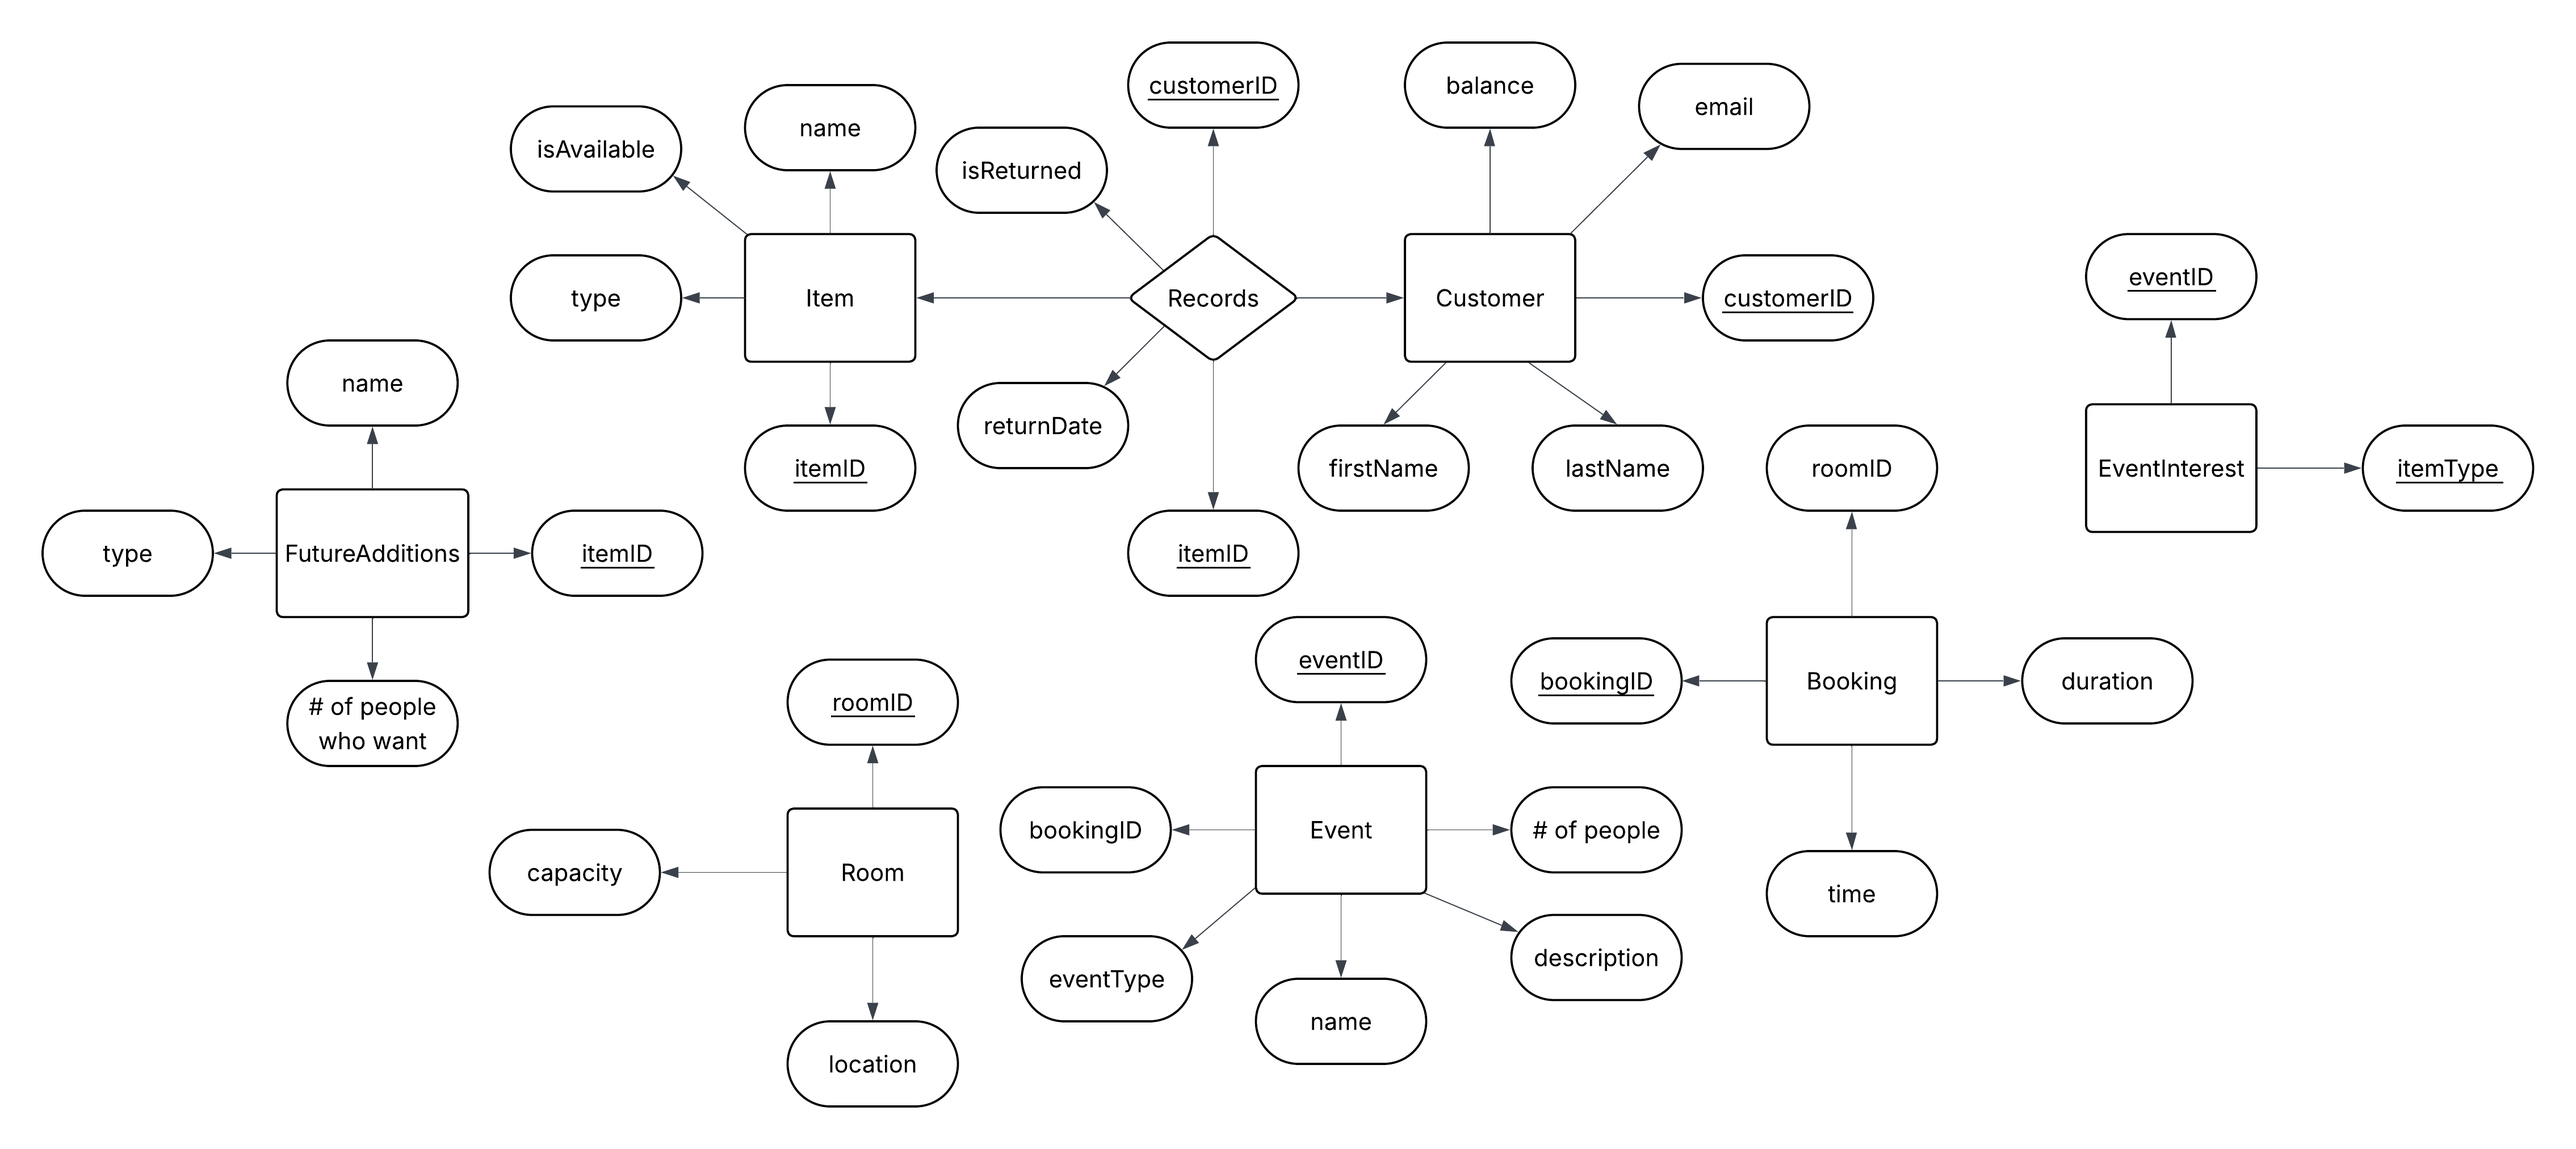
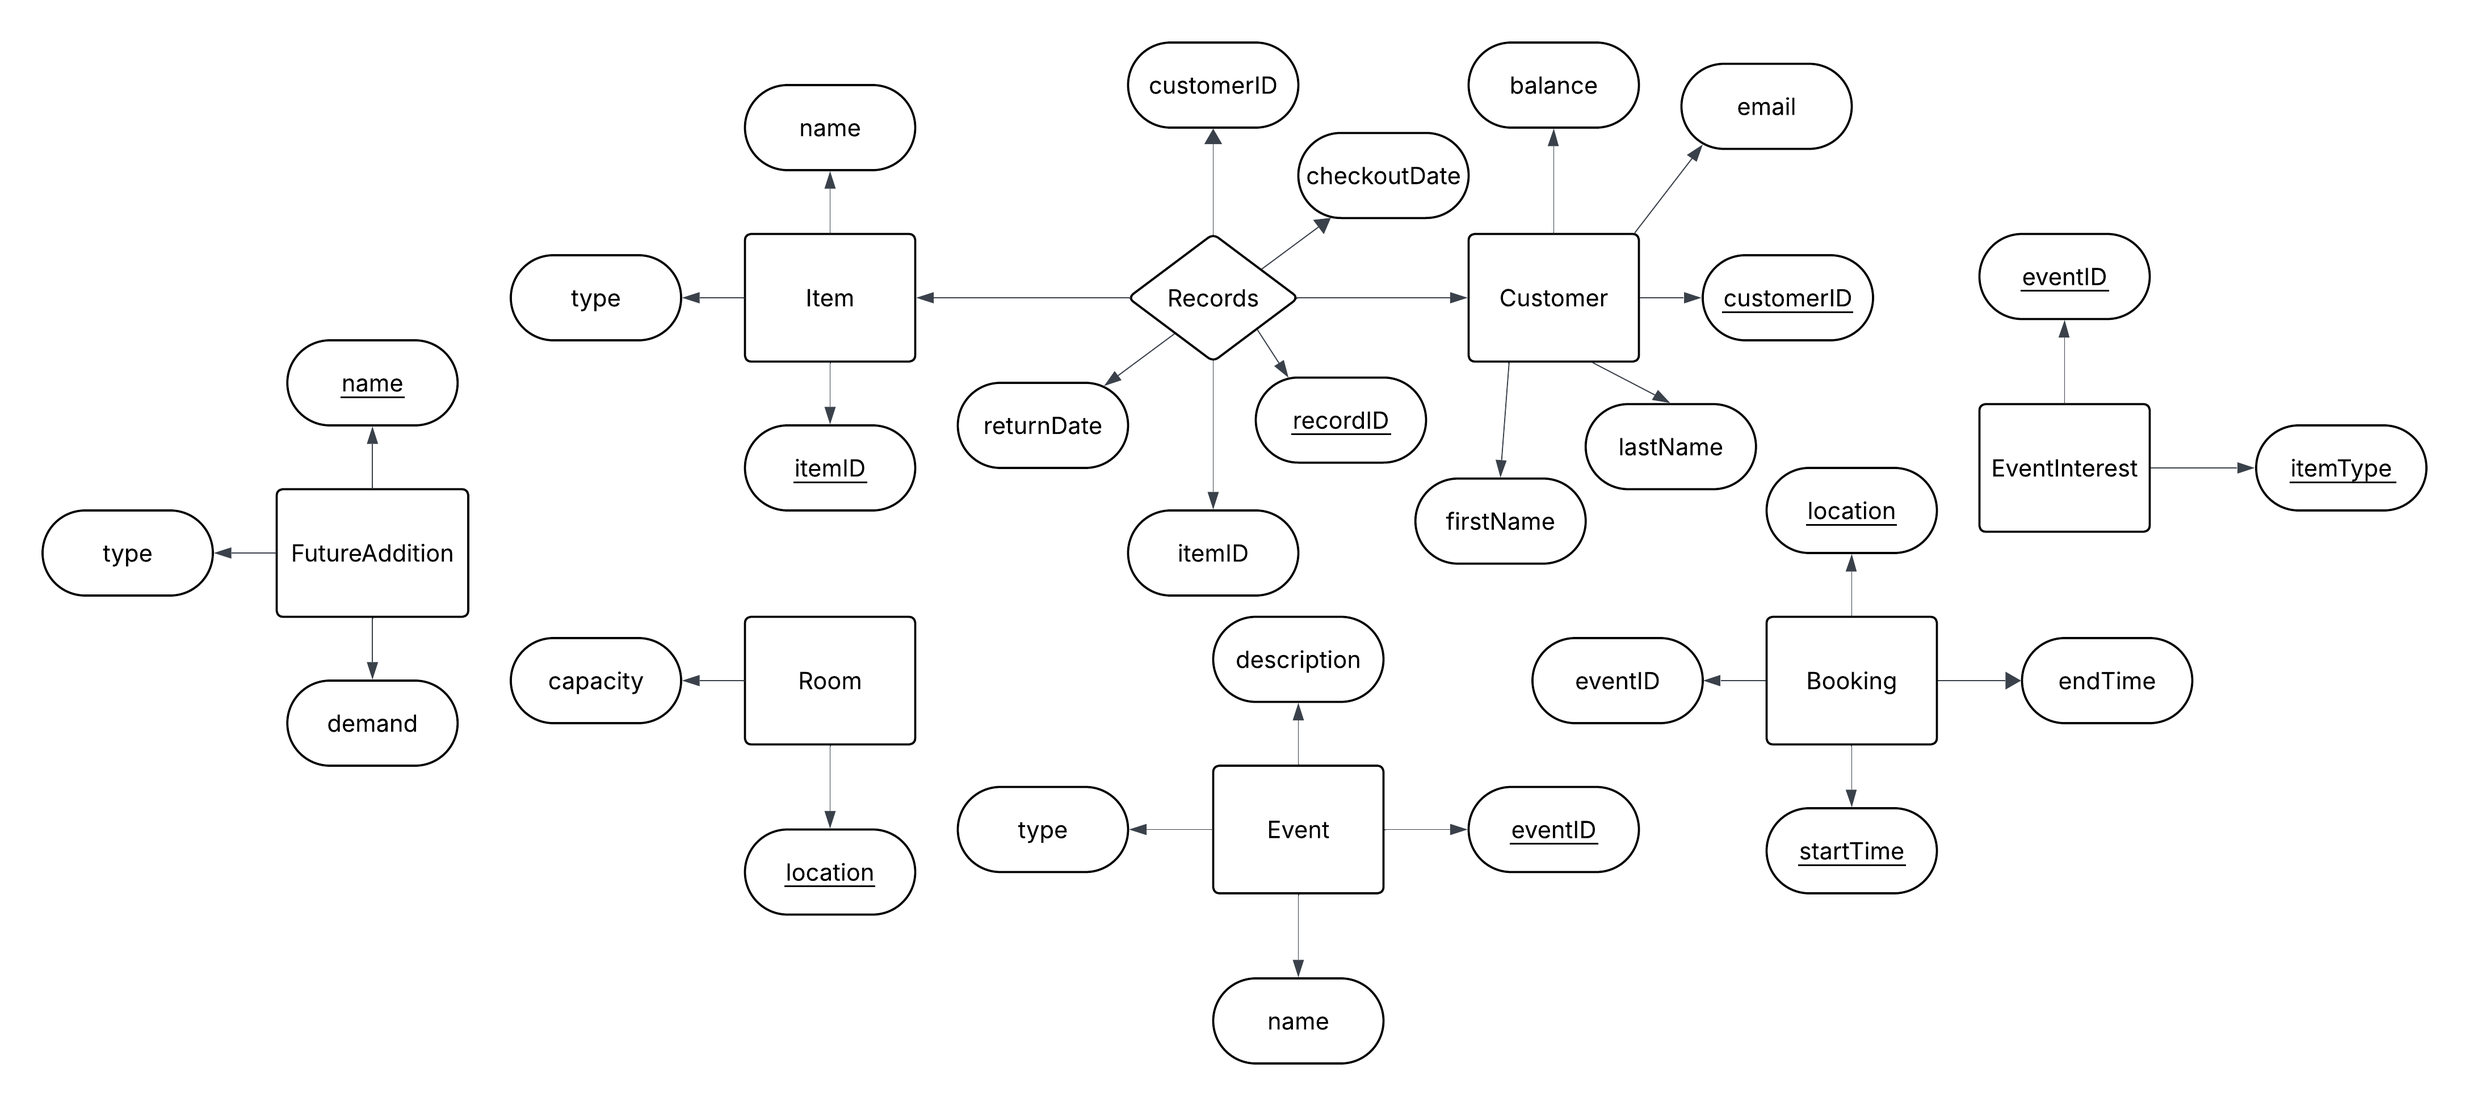
Implemented the schema and made changes to the ERD

diff --git a/db_api.py b/db_api.py
@@ -4,30 +4,64 @@ SCHEMA = """
 CREATE TABLE IF NOT EXISTS Customer(
     customerID INTEGER PRIMARY KEY AUTOINCREMENT,
     firstName VARCHAR(50),
-    lastName VARCHAR(50),
-    email VARCHAR(50),
-    balance FLOAT
+    lastName VARCHAR(50) DEFAULT NULL,
+    email VARCHAR(100) DEFAULT NULL,
+    balance INTEGER DEFAULT 0
 );
 
 CREATE TABLE IF NOT EXISTS Item(
     itemID INTEGER PRIMARY KEY AUTOINCREMENT,
     name VARCHAR(50),
-    type VARCHAR(50),
-    isAvailable BOOLEAN
+    type VARCHAR(50)
 );
 
 CREATE TABLE IF NOT EXISTS Records(
+    recordID INTEGER PRIMARY KEY AUTOINCREMENT,
     customerID INTEGER,
     itemID INTEGER,
-    returnDate DATETIME,
-    isReturned BOOLEAN,
+    checkoutDate DATETIME DEFAULT CURRENT_TIMESTAMP,
+    returnDate DATETIME DEFAULT NULL,
 
     FOREIGN KEY (customerID) REFERENCES Customer(customerID),
-    FOREIGN KEY (itemID) REFERENCES Item(itemID),
-    PRIMARY KEY (customerID, ItemID)
+    FOREIGN KEY (itemID) REFERENCES Item(itemID)
 );
 
-CREATE TABLE IF NOT EXISTS FutureAddition"""
+CREATE TABLE IF NOT EXISTS FutureAddition(
+    name VARCHAR(50) PRIMARY KEY,
+    type VARCHAR(50),
+    demand INTEGER DEFAULT 0
+);
+
+CREATE TABLE IF NOT EXISTS Room(
+    location VARCHAR(50) PRIMARY KEY,
+    capacity INTEGER
+);
+
+CREATE TABLE IF NOT EXISTS Event(
+    eventID INTEGER PRIMARY KEY AUTOINCREMENT,
+    name VARCHAR(50),
+    type VARCHAR(50),
+    description VARCHAR(300)
+);
+
+CREATE TABLE IF NOT EXISTS Booking(
+    eventID INTEGER,
+    location VARCHAR(50),
+    startTime DATETIME,
+    endTime DATETIME,
+
+    FOREIGN KEY (location) REFERENCES Room(location),
+    FOREIGN KEY (eventID) REFERENCES Event(eventID),
+    PRIMARY KEY (location, startTime)
+);
+
+CREATE TABLE IF NOT EXISTS EventInterest(
+    eventID INTEGER,
+    itemType VARCHAR(50),
+    
+    FOREIGN KEY (eventID) REFERENCES Event(eventID),
+    PRIMARY KEY (eventID, itemType)
+)"""
 
 
 class Database:
